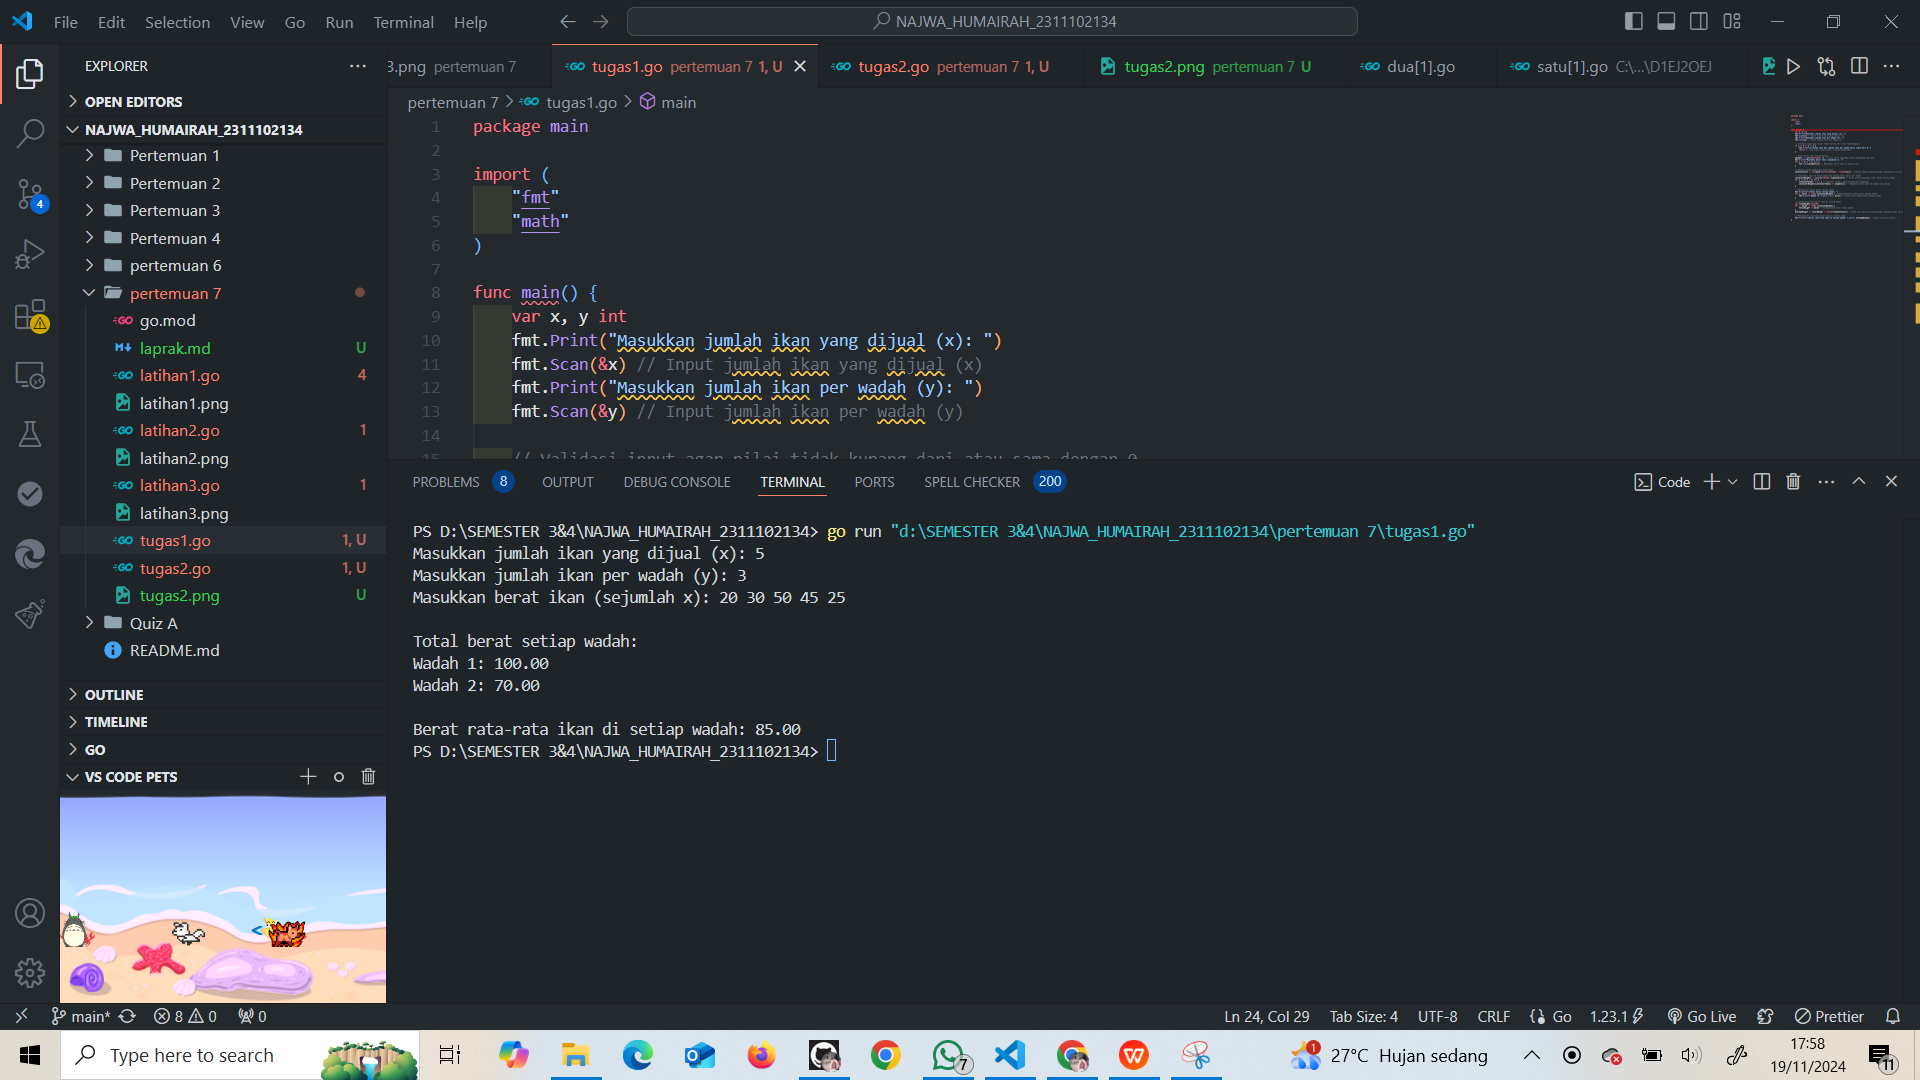
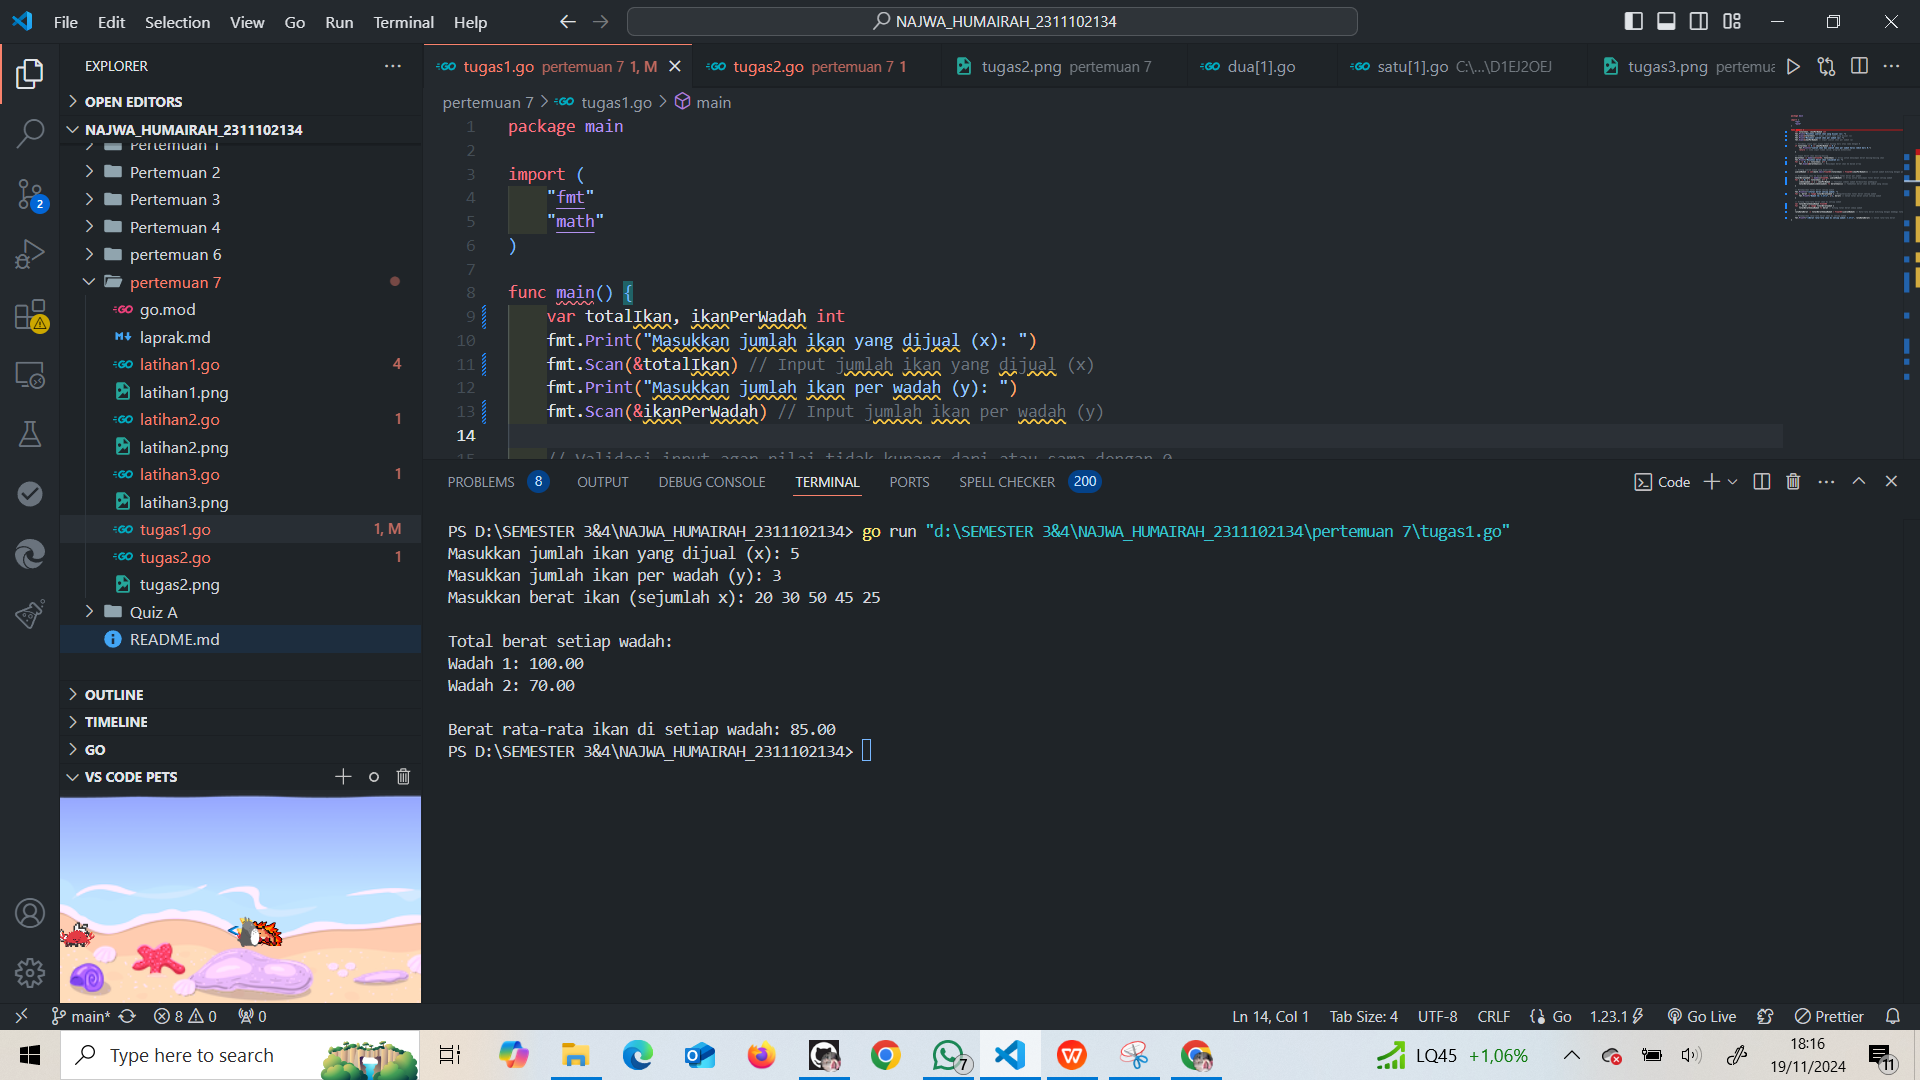
pertemuan7

diff --git a/pertemuan 7/tugas1.go b/pertemuan 7/tugas1.go
@@ -6,48 +6,48 @@ import (
 )
 
 func main() {
-	var x, y int
+	var totalIkan, ikanPerWadah int
 	fmt.Print("Masukkan jumlah ikan yang dijual (x): ")
-	fmt.Scan(&x) // Input jumlah ikan yang dijual (x) 
+	fmt.Scan(&totalIkan) // Input jumlah ikan yang dijual (x) 
 	fmt.Print("Masukkan jumlah ikan per wadah (y): ")
-	fmt.Scan(&y) // Input jumlah ikan per wadah (y) 
+	fmt.Scan(&ikanPerWadah) // Input jumlah ikan per wadah (y) 
 
 	// Validasi input agar nilai tidak kurang dari atau sama dengan 0
-	if x <= 0 || y <= 0 {
+	if totalIkan <= 0 || ikanPerWadah <= 0 {
 		fmt.Println("Jumlah ikan dan jumlah ikan per wadah harus lebih dari 0.")
 		return // Jika input tidak valid, program dihentikan
 	}
 
 	// Input berat ikan masing-masing
-	weights := make([]float64, x) // Array untuk menyimpan berat masing-masing ikan
+	beratIkan := make([]float64, totalIkan) // Array untuk menyimpan berat masing-masing ikan
 	fmt.Printf("Masukkan berat ikan (sejumlah x): ")
-	for i := 0; i < x; i++ {
-		fmt.Scan(&weights[i]) // Menyimpan berat ikan ke dalam array
+	for i := 0; i < totalIkan; i++ {
+		fmt.Scan(&beratIkan[i]) // Menyimpan berat ikan ke dalam array
 	}
 
 	// Hitung jumlah wadah yang diperlukan
-	numContainers := int(math.Ceil(float64(x) / float64(y))) // Jumlah wadah dihitung dengan pembulatan ke atas
+	jumlahWadah := int(math.Ceil(float64(totalIkan) / float64(ikanPerWadah))) // Jumlah wadah dihitung dengan pembulatan ke atas
 
 	// Distribusi ikan ke dalam wadah dan hitung total berat per wadah
-	containerWeights := make([]float64, numContainers) // Array untuk menyimpan total berat setiap wadah
-	for i := 0; i < x; i++ {
-		containerIndex := i / y // Tentukan indeks wadah berdasarkan pembagian
-		containerWeights[containerIndex] += weights[i] // Tambahkan berat ikan ke wadah yang sesuai
+	totalBeratwadah := make([]float64, jumlahWadah) // Array untuk menyimpan total berat setiap wadah
+	for i := 0; i < totalIkan; i++ {
+		indekswadah := i / ikanPerWadah // Tentukan indeks wadah berdasarkan pembagian
+		totalBeratwadah[indekswadah] += beratIkan[i] // Tambahkan berat ikan ke wadah yang sesuai
 	}
 
 	// Menampilkan total berat setiap wadah
 	fmt.Println("\nTotal berat setiap wadah: ")
-	for i, berat := range containerWeights { //Mengiterasikan total berat setiap wadah
+	for i, berat := range totalBeratwadah { //Mengiterasikan total berat setiap wadah
 		fmt.Printf("Wadah %d: %.2f\n", i+1, berat) // Cetak total berat untuk setiap wadah
 	}
 
 	// Hitung rata-rata berat ikan di setiap wadah
-	var totalWeight float64
-	for _, berat := range containerWeights {
-		totalWeight += berat // Hitung total berat semua wadah
+	var totalBeratSemuaWadah float64
+	for _, berat := range totalBeratwadah {
+		totalBeratSemuaWadah += berat // Hitung total berat semua wadah
 	}
-	averageWeight := totalWeight / float64(numContainers) // Rata-rata berat dihitung dengan membagi total berat dengan jumlah wadah
+	rataRataBerat := totalBeratSemuaWadah / float64(jumlahWadah) // Rata-rata berat dihitung dengan membagi total berat dengan jumlah wadah
 
 	// Menampilkan rata-rata berat ikan di setiap wadah
-	fmt.Printf("\nBerat rata-rata ikan di setiap wadah: %.2f\n", averageWeight) // Cetak rata-rata berat
+	fmt.Printf("\nBerat rata-rata ikan di setiap wadah: %.2f\n", rataRataBerat) // Cetak rata-rata berat
 }
